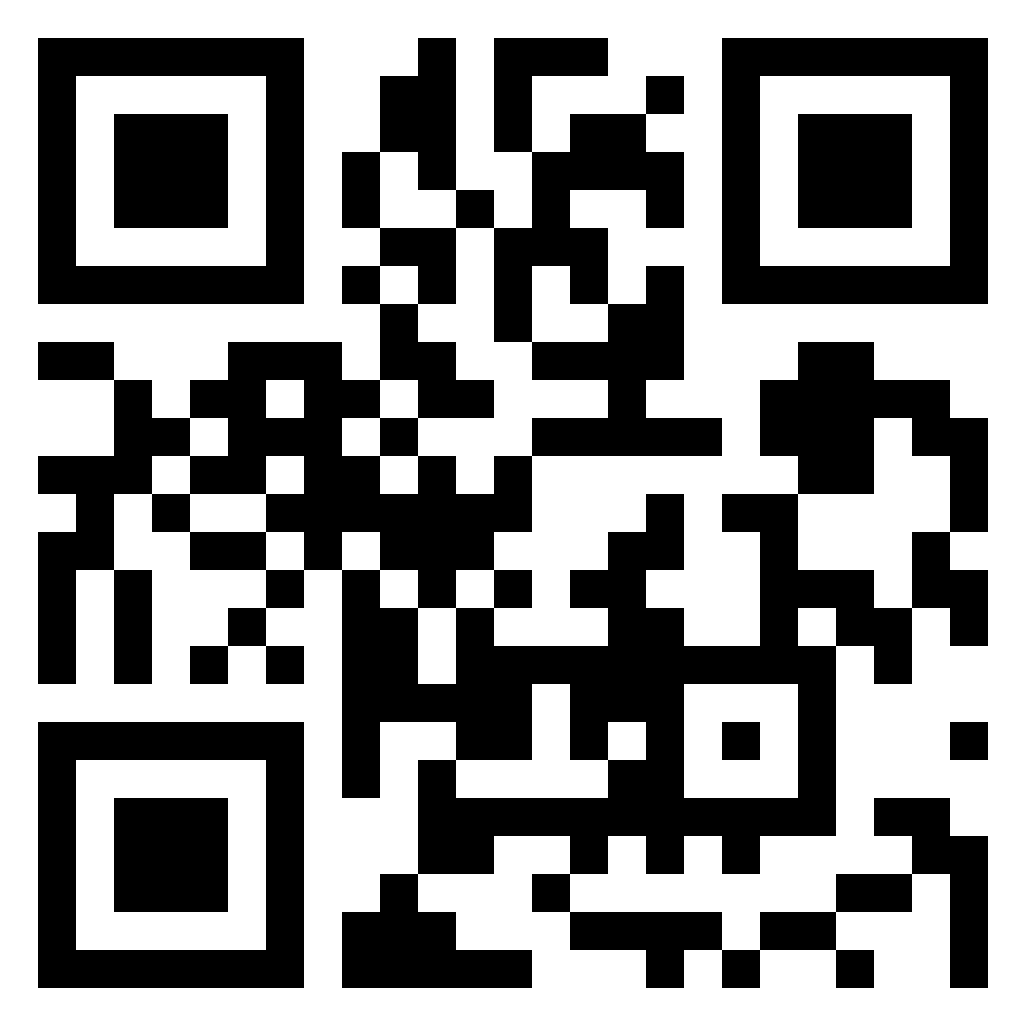
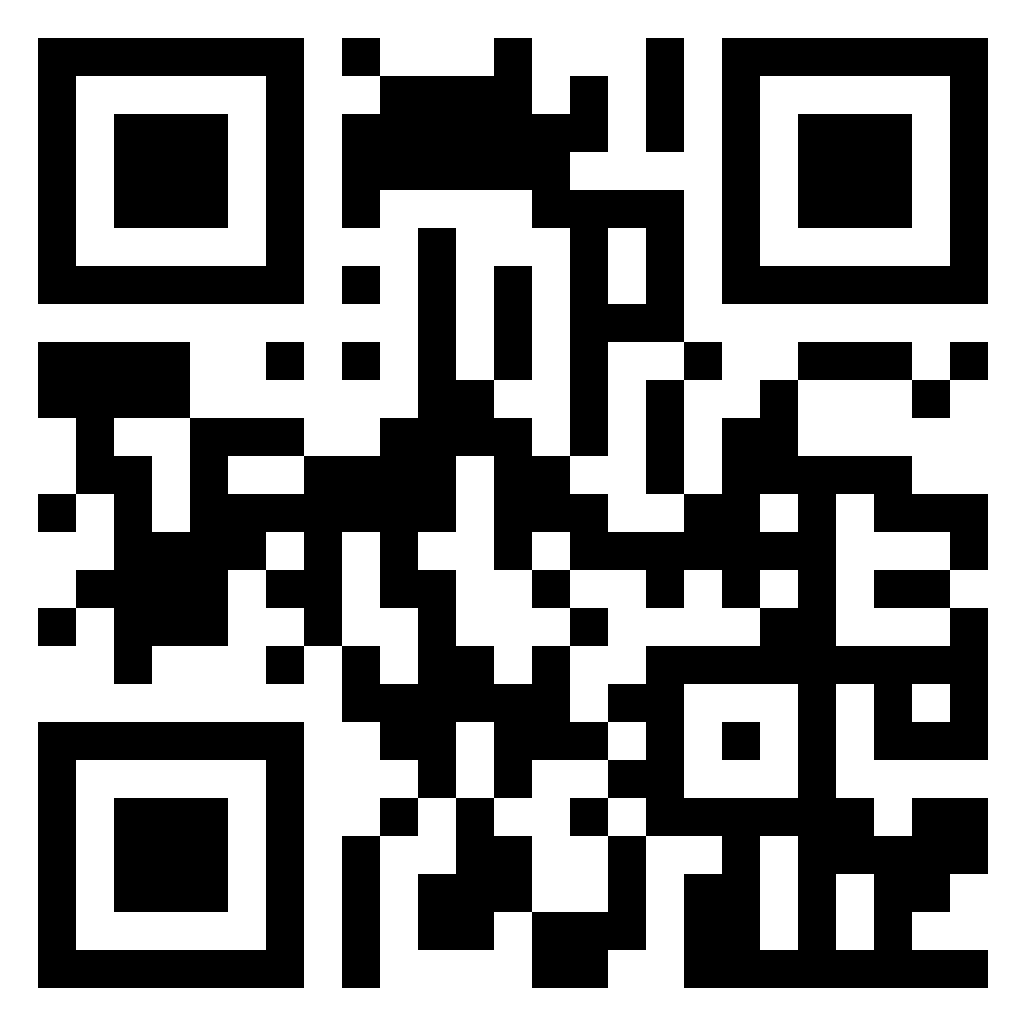
update qr

diff --git a/frontend/src/components/screen/WaitingScreen.jsx b/frontend/src/components/screen/WaitingScreen.jsx
@@ -3,7 +3,7 @@ import qr from '../../images/qr.png'
 const WaitingScreen = ({players}) => (
     <div key={0}>
         <div className='flex justify-center'>
-            <span className='text-2xl p-4 font-playfair font-semibold tracking-wider bg-white text-black rounded mb-4'>Scan me to join, or go to https://knj-trivia.vercel.app/</span>
+            <span className='text-2xl p-4 font-playfair font-semibold tracking-wider bg-white text-black rounded mb-4'>Scan me to join, or go to https://knj-trivia.pages.dev/</span>
         </div>
         <div className='flex justify-center'>
             <img className='h-64' src={qr} alt="qr"/>
